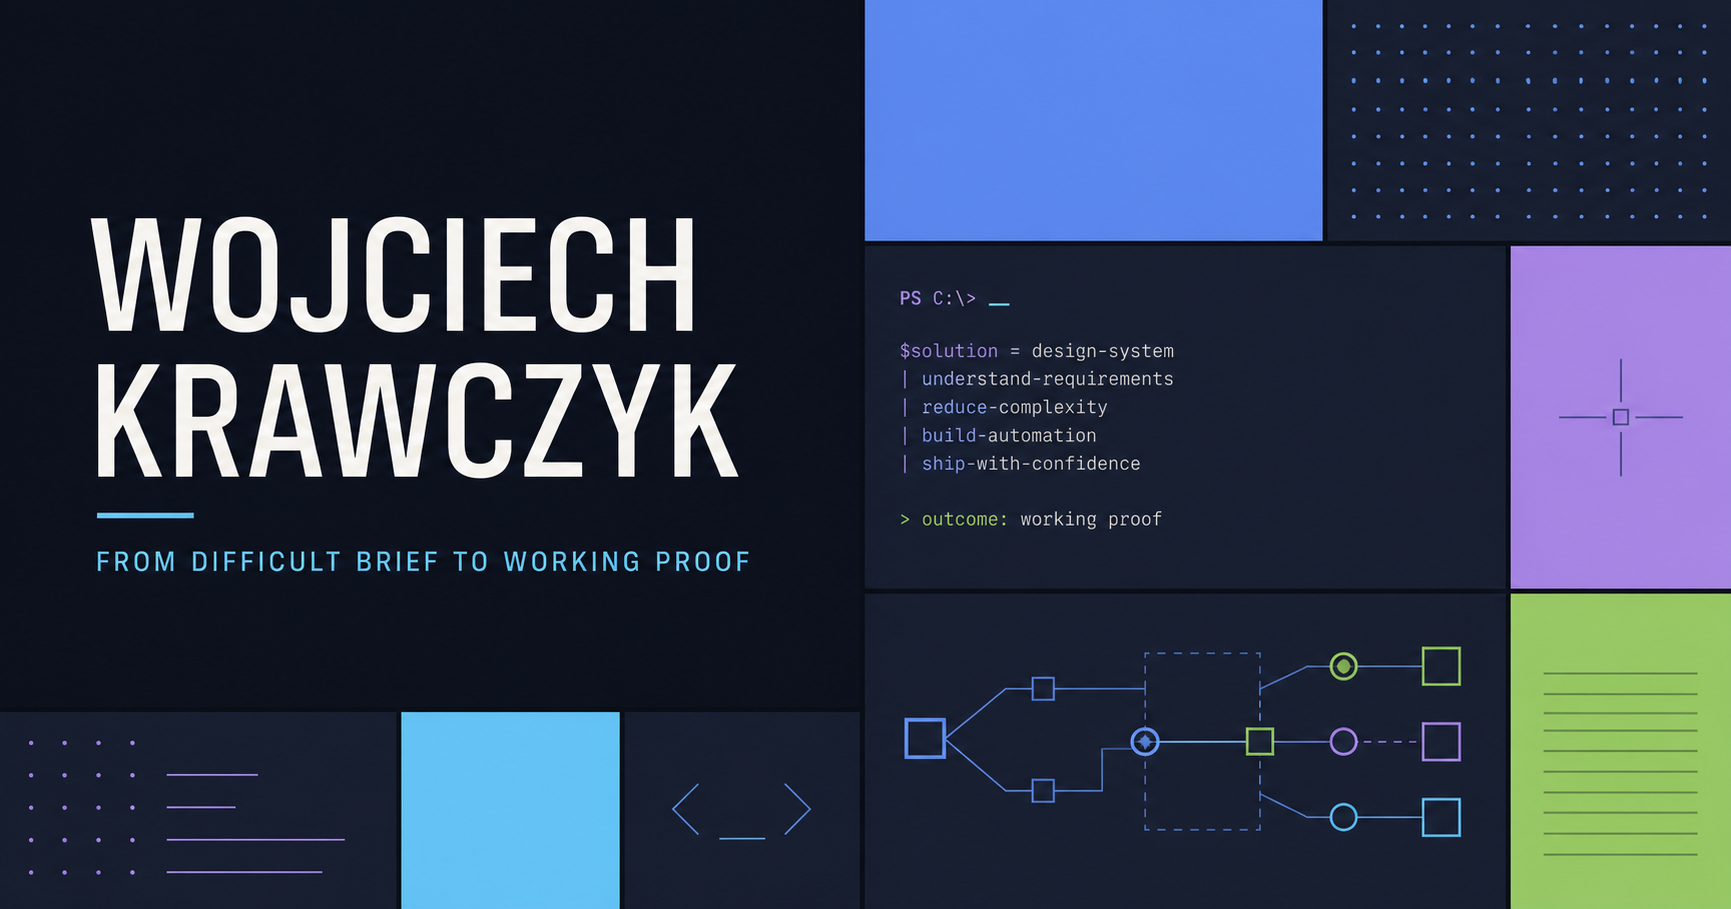
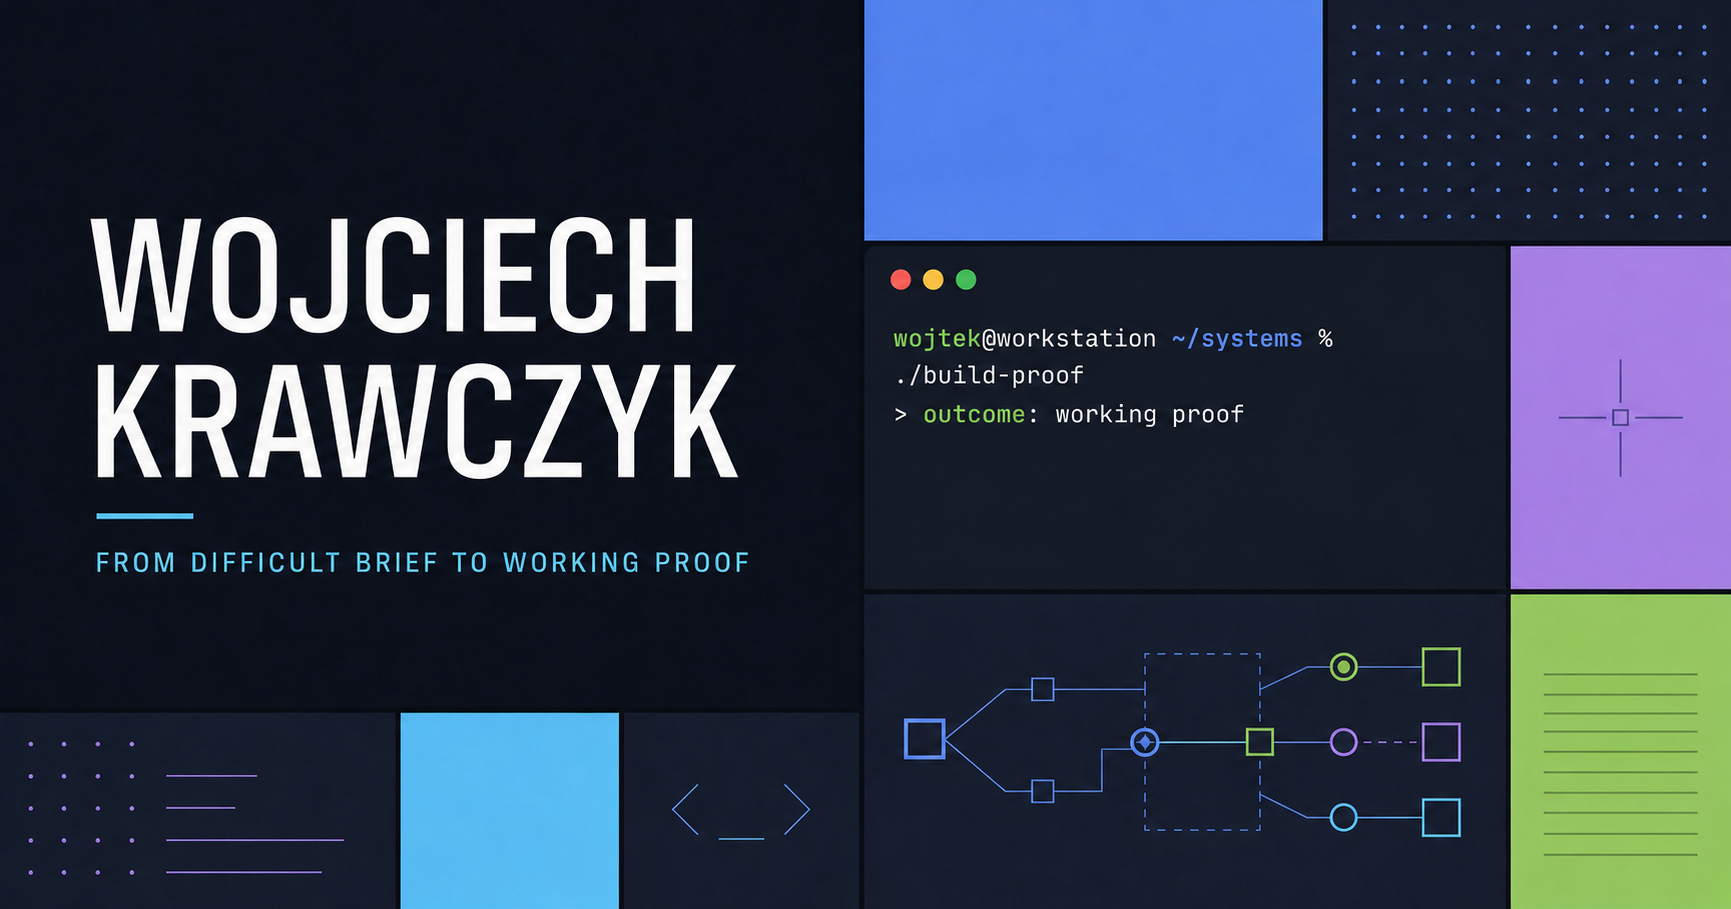
Scale project marks and adopt Unix terminal styling

diff --git a/styles.css b/styles.css
@@ -16,7 +16,7 @@
   --red: #f7768e;
   color: var(--text);
   background: var(--bg);
-  font-family: "Segoe UI", Inter, ui-sans-serif, system-ui, sans-serif;
+  font-family: -apple-system, BlinkMacSystemFont, "Helvetica Neue", Inter, ui-sans-serif, system-ui, sans-serif;
   font-synthesis: none;
 }
 
@@ -43,7 +43,7 @@ img { display: block; max-width: 100%; }
   backdrop-filter: blur(16px);
 }
 .brand { width: max-content; display: flex; align-items: center; gap: 13px; }
-.brand-mark { width: 44px; height: 44px; display: grid; place-items: center; background: var(--blue); color: var(--bg-deep); font: 800 13px/1 "Cascadia Code", "SFMono-Regular", Consolas, monospace; }
+.brand-mark { width: 44px; height: 44px; display: grid; place-items: center; background: var(--blue); color: var(--bg-deep); font: 800 13px/1 "SFMono-Regular", Menlo, Monaco, "Liberation Mono", monospace; }
 .brand-copy { display: grid; gap: 3px; }
 .brand-copy strong { color: var(--bright); font-size: 14px; }
 .brand-copy small { color: var(--muted); font-size: 11px; }
@@ -54,7 +54,7 @@ nav a:hover, .header-link:hover { color: var(--cyan); }
 .header-link span { color: var(--cyan); }
 
 .hero { min-height: 690px; padding-block: clamp(80px, 10vw, 136px); display: grid; grid-template-columns: minmax(0, 1.08fr) minmax(400px, .92fr); gap: clamp(48px, 8vw, 100px); align-items: center; }
-.kicker { margin: 0 0 20px; color: var(--cyan); font: 700 11px/1.4 "Cascadia Code", "SFMono-Regular", Consolas, monospace; letter-spacing: .11em; text-transform: uppercase; }
+.kicker { margin: 0 0 20px; color: var(--cyan); font: 700 11px/1.4 "SFMono-Regular", Menlo, Monaco, "Liberation Mono", monospace; letter-spacing: .11em; text-transform: uppercase; }
 .kicker span { display: inline-block; width: 28px; height: 2px; margin: 0 10px 3px 0; background: var(--cyan); }
 .hero h1 { margin: 0; max-width: 760px; color: var(--bright); font-size: clamp(58px, 7.2vw, 92px); font-weight: 300; line-height: .94; letter-spacing: -.065em; }
 .hero h1 em { color: var(--blue); font-style: normal; font-weight: 650; }
@@ -67,12 +67,16 @@ nav a:hover, .header-link:hover { color: var(--cyan); }
 .button--quiet:hover { border-color: var(--purple); color: var(--purple); }
 
 .terminal { border: 1px solid var(--line); background: #101116; box-shadow: 18px 18px 0 rgba(122, 162, 247, .08); }
-.terminal-bar { min-height: 42px; padding: 0 12px; display: grid; grid-template-columns: auto 1fr auto; align-items: center; gap: 10px; background: var(--panel); color: var(--muted); font-size: 12px; }
-.terminal-icon { width: 24px; height: 24px; display: grid; place-items: center; background: var(--blue); color: var(--bg-deep); font: 800 9px "Cascadia Code", Consolas, monospace; }
-.terminal-controls { color: #69739c; letter-spacing: .6em; }
-.terminal-body { min-height: 300px; padding: 25px 24px; color: var(--text); font: 13px/1.85 "Cascadia Code", "SFMono-Regular", Consolas, monospace; }
+.terminal-bar { min-height: 44px; padding: 0 14px; display: grid; grid-template-columns: 1fr auto 1fr; align-items: center; gap: 10px; background: var(--panel); color: var(--muted); font-size: 11px; }
+.terminal-controls { display: flex; gap: 7px; }
+.terminal-controls i { width: 11px; height: 11px; display: block; border-radius: 50%; background: var(--red); }
+.terminal-controls i:nth-child(2) { background: var(--yellow); }
+.terminal-controls i:nth-child(3) { background: var(--green); }
+.terminal-shell { justify-self: end; color: #69739c; font-size: 15px; }
+.terminal-body { min-height: 300px; padding: 25px 24px; color: var(--text); font: 13px/1.85 "SFMono-Regular", Menlo, Monaco, "Liberation Mono", monospace; }
 .terminal-body p { margin: 0; }
 .prompt { color: var(--cyan); }
+.path { color: var(--blue); }
 .dim { color: var(--purple); }
 .terminal-status { display: flex; justify-content: space-between; gap: 16px; }
 .terminal-status > span:first-child { min-width: 0; }
@@ -85,7 +89,7 @@ nav a:hover, .header-link:hover { color: var(--cyan); }
 .signal-strip { list-style: none; padding: 0; display: grid; grid-template-columns: repeat(4, 1fr); border: 1px solid var(--line); border-bottom: 0; }
 .signal-strip li { min-height: 125px; padding: 24px; display: grid; align-content: center; gap: 8px; border-right: 1px solid var(--line); background: var(--panel); }
 .signal-strip li:last-child { border-right: 0; }
-.signal-strip strong { color: var(--bright); font: 500 32px/1 "Cascadia Code", Consolas, monospace; }
+.signal-strip strong { color: var(--bright); font: 500 32px/1 "SFMono-Regular", Menlo, Monaco, "Liberation Mono", monospace; }
 .signal-strip span { color: var(--muted); font-size: 12px; line-height: 1.4; }
 
 .systems { padding-block: 110px; background: var(--bg-deep); border-top: 1px solid var(--line); border-bottom: 1px solid var(--line); }
@@ -93,32 +97,39 @@ nav a:hover, .header-link:hover { color: var(--cyan); }
 .section-head h2 { margin: 0; max-width: 780px; color: var(--bright); font-size: clamp(42px, 5vw, 68px); font-weight: 300; line-height: .98; letter-spacing: -.055em; }
 .section-head > p { max-width: 520px; margin: 0; color: var(--muted); font-size: 14px; line-height: 1.65; }
 .metro-grid { display: grid; grid-template-columns: repeat(12, 1fr); grid-auto-flow: dense; gap: 12px; }
-.system-tile { min-height: 440px; padding: 25px; display: flex; flex-direction: column; overflow: hidden; color: var(--bright); }
+.system-tile { min-height: 510px; padding: 25px; display: flex; flex-direction: column; overflow: hidden; color: var(--bright); }
 .system-tile--dw { grid-column: span 7; background: var(--panel); border-top: 4px solid var(--cyan); }
 .system-tile--amber { grid-column: span 5; background: var(--panel-soft); border-top: 4px solid var(--orange); }
 .system-tile--commerce { grid-column: span 5; background: var(--panel); border-top: 4px solid var(--green); }
 .system-tile--tacti { grid-column: span 7; background: var(--panel-soft); border-top: 4px solid var(--purple); }
-.tile-label { display: flex; justify-content: space-between; color: rgba(232,234,246,.72); font: 10px "Cascadia Code", Consolas, monospace; letter-spacing: .1em; text-transform: uppercase; }
+.tile-label { display: flex; justify-content: space-between; color: rgba(232,234,246,.72); font: 10px "SFMono-Regular", Menlo, Monaco, "Liberation Mono", monospace; letter-spacing: .1em; text-transform: uppercase; }
 .tile-label b { font-weight: 500; }
-.system-tile > img { width: auto; max-width: 210px; max-height: 90px; margin: 37px 0 30px; object-fit: contain; object-position: left center; }
-.system-tile--commerce > img { max-width: 135px; max-height: 100px; }
-.system-tile--tacti > img { max-width: 82px; max-height: 82px; }
+.system-logo { min-height: 215px; margin: 24px -25px 28px; padding: 22px 25px; display: flex; align-items: center; justify-content: center; overflow: hidden; }
+.system-logo--light { background: #f4f5f8; }
+.system-logo--dark { background: #10131c; }
+.system-logo img { width: auto; max-width: 100%; height: auto; object-fit: contain; object-position: center; }
+.system-logo--dw img { width: min(100%, 720px); }
+.system-logo--amber img { width: min(108%, 590px); }
+.system-logo--commerce { min-height: 270px; padding-block: 12px; }
+.system-logo--commerce img { width: 335px; max-height: 246px; }
+.system-logo--tacti { min-height: 270px; padding-block: 12px; }
+.system-logo--tacti img { width: 245px; max-height: 245px; }
 .tile-copy { margin-top: auto; }
 .tile-copy h3 { margin: 0; font-size: 31px; font-weight: 500; letter-spacing: -.04em; }
 .tile-copy p { max-width: 650px; margin: 15px 0 0; color: rgba(232,234,246,.76); font-size: 14px; line-height: 1.58; }
 .tile-copy ul { list-style: none; display: flex; flex-wrap: wrap; gap: 7px; padding: 0; margin: 22px 0 0; }
-.tile-copy li { padding: 5px 8px; border: 1px solid rgba(232,234,246,.4); font: 9px "Cascadia Code", Consolas, monospace; letter-spacing: .04em; text-transform: uppercase; }
+.tile-copy li { padding: 5px 8px; border: 1px solid rgba(232,234,246,.4); font: 9px "SFMono-Regular", Menlo, Monaco, "Liberation Mono", monospace; letter-spacing: .04em; text-transform: uppercase; }
 
 .engineering { padding-block: 110px; }
 .engineering-grid { display: grid; grid-template-columns: repeat(12, 1fr); gap: 12px; }
 .engineering-tile { grid-column: span 5; min-height: 260px; padding: 28px; position: relative; background: var(--panel); border-top: 4px solid var(--purple); }
 .engineering-tile--large { grid-column: span 7; border-color: var(--blue); }
 .engineering-tile--accent { grid-column: span 7; background: var(--blue); color: var(--bg-deep); border-color: var(--cyan); }
-.tile-number { position: absolute; right: 23px; top: 20px; color: var(--muted); font: 12px "Cascadia Code", Consolas, monospace; }
+.tile-number { position: absolute; right: 23px; top: 20px; color: var(--muted); font: 12px "SFMono-Regular", Menlo, Monaco, "Liberation Mono", monospace; }
 .engineering-tile--accent .tile-number { color: rgba(22,22,30,.62); }
 .engineering-tile h3 { margin: 55px 0 14px; color: var(--bright); font-size: 28px; font-weight: 500; letter-spacing: -.035em; }
 .engineering-tile--accent h3 { color: var(--bg-deep); }
-.engineering-tile p { margin: 0; color: var(--cyan); font: 13px/1.65 "Cascadia Code", Consolas, monospace; }
+.engineering-tile p { margin: 0; color: var(--cyan); font: 13px/1.65 "SFMono-Regular", Menlo, Monaco, "Liberation Mono", monospace; }
 .engineering-tile--accent p { color: var(--bg-deep); }
 .engineering-tile small { display: block; max-width: 590px; margin-top: 22px; color: var(--muted); font-size: 13px; line-height: 1.5; }
 
@@ -128,7 +139,7 @@ nav a:hover, .header-link:hover { color: var(--cyan); }
 .contact-tile { grid-column: span 4; min-height: 150px; padding: 23px; display: grid; grid-template-columns: 1fr auto; align-content: space-between; background: var(--panel); border-left: 4px solid var(--purple); }
 .contact-tile--email { grid-column: span 8; background: var(--blue); color: var(--bg-deep); border-color: var(--cyan); }
 .contact-tile--credly { background: #3a3154; border-color: var(--purple); }
-.contact-tile span { grid-column: 1; color: var(--muted); font: 10px "Cascadia Code", Consolas, monospace; text-transform: uppercase; letter-spacing: .1em; }
+.contact-tile span { grid-column: 1; color: var(--muted); font: 10px "SFMono-Regular", Menlo, Monaco, "Liberation Mono", monospace; text-transform: uppercase; letter-spacing: .1em; }
 .contact-tile--email span { color: var(--bg-deep); }
 .contact-tile strong { grid-column: 1; align-self: end; color: var(--bright); font-size: 16px; overflow-wrap: anywhere; }
 .contact-tile--email strong { color: var(--bg-deep); font-size: clamp(18px, 2.4vw, 27px); }
@@ -147,7 +158,11 @@ nav a:hover, .header-link:hover { color: var(--cyan); }
   .signal-strip li:nth-child(2) { border-right: 0; }
   .signal-strip li:nth-child(-n+2) { border-bottom: 1px solid var(--line); }
   .section-head { grid-template-columns: 1fr; gap: 24px; }
-  .system-tile, .system-tile--dw, .system-tile--amber, .system-tile--commerce, .system-tile--tacti { grid-column: span 12; min-height: 410px; }
+  .system-tile, .system-tile--dw, .system-tile--amber, .system-tile--commerce, .system-tile--tacti { grid-column: span 12; min-height: 490px; }
+  .system-logo--dw img { width: min(88vw, 760px); }
+  .system-logo--amber img { width: min(84vw, 650px); }
+  .system-logo--commerce img { width: 340px; max-height: 250px; }
+  .system-logo--tacti img { width: 250px; max-height: 250px; }
   .engineering-tile, .engineering-tile--large, .engineering-tile--accent { grid-column: span 12; }
   .contact-tile, .contact-tile--email { grid-column: span 6; }
 }
@@ -164,8 +179,13 @@ nav a:hover, .header-link:hover { color: var(--cyan); }
   .signal-strip { width: 100%; grid-template-columns: 1fr; border-inline: 0; }
   .signal-strip li, .signal-strip li:nth-child(2) { min-height: 105px; border-right: 0; border-bottom: 1px solid var(--line); }
   .systems, .engineering, .contact { padding-block: 78px; }
-  .system-tile { min-height: 430px; padding: 22px; }
-  .system-tile > img { max-width: 170px; max-height: 75px; }
+  .system-tile { min-height: 470px; padding: 22px; }
+  .system-logo { min-height: 180px; margin: 22px -22px 24px; padding: 18px 22px; }
+  .system-logo--dw img { width: 100%; }
+  .system-logo--amber img { width: 105%; }
+  .system-logo--commerce, .system-logo--tacti { min-height: 235px; }
+  .system-logo--commerce img { width: 285px; max-height: 215px; }
+  .system-logo--tacti img { width: 215px; max-height: 215px; }
   .engineering-tile { min-height: 245px; }
   .contact-tile, .contact-tile--email { grid-column: span 12; }
   .site-footer { padding-block: 24px; flex-direction: column; align-items: flex-start; }

diff --git a/index.html b/index.html
@@ -43,20 +43,20 @@
           </div>
         </div>
 
-        <aside class="terminal" aria-label="Engineering workflow shown as a PowerShell session">
+        <aside class="terminal" aria-label="Engineering workflow shown as a zsh terminal session">
           <div class="terminal-bar">
-            <span class="terminal-icon">PS</span>
-            <span>Windows PowerShell</span>
-            <span class="terminal-controls" aria-hidden="true">— □ ×</span>
+            <span class="terminal-controls" aria-hidden="true"><i></i><i></i><i></i></span>
+            <span>wojtek — zsh — ~/systems</span>
+            <span class="terminal-shell" aria-hidden="true">⌘</span>
           </div>
           <div class="terminal-body">
-            <p><span class="prompt">PS C:\systems&gt;</span> .\build-proof.ps1</p>
+            <p><span class="prompt">wojtek@workstation</span> <span class="path">~/systems</span> % ./build-proof</p>
             <p class="terminal-status"><span><span class="dim">[01]</span> define the operating contract</span><span class="ok">OK</span></p>
             <p class="terminal-status"><span><span class="dim">[02]</span> cross every layer once</span><span class="ok">OK</span></p>
             <p class="terminal-status"><span><span class="dim">[03]</span> exercise the failure path</span><span class="ok">OK</span></p>
             <p class="terminal-status"><span><span class="dim">[04]</span> preserve the evidence</span><span class="ok">OK</span></p>
             <p class="terminal-result">result: useful, observable, ready to operate</p>
-            <p><span class="prompt">PS C:\systems&gt;</span><span class="cursor" aria-hidden="true"></span></p>
+            <p><span class="prompt">wojtek@workstation</span> <span class="path">~/systems</span> %<span class="cursor" aria-hidden="true"></span></p>
           </div>
         </aside>
       </section>
@@ -84,9 +84,11 @@
           <div class="metro-grid">
             <article class="system-tile system-tile--dw">
               <div class="tile-label"><span>Commerce intelligence</span><b>01</b></div>
-              <img src="assets/work/digitalweaver.svg" width="1200" height="260" alt="DigitalWeaver">
+              <div class="system-logo system-logo--light system-logo--dw">
+                <img src="assets/work/digitalweaver.svg" width="700" height="180" alt="">
+              </div>
               <div class="tile-copy">
-                <h3>DigitalWeaver</h3>
+                <h3 class="visually-hidden">DigitalWeaver</h3>
                 <p>Semantic and visual retrieval, per-session taste, Stripe billing, quotas, WooCommerce, and an authorised operational interface. The current full proof is a 31/31 local Docker gate.</p>
                 <ul><li>retrieval</li><li>multi-tenant</li><li>commerce</li></ul>
               </div>
@@ -94,9 +96,11 @@
 
             <article class="system-tile system-tile--amber">
               <div class="tile-label"><span>Retrieval core</span><b>02</b></div>
-              <img src="assets/work/amber.svg" width="1200" height="320" alt="AMBER">
+              <div class="system-logo system-logo--light system-logo--amber">
+                <img src="assets/work/amber.svg" width="1200" height="320" alt="">
+              </div>
               <div class="tile-copy">
-                <h3>AMBER</h3>
+                <h3 class="visually-hidden">AMBER</h3>
                 <p>A Go ranker compressing a 384-dimensional document embedding into a 48-byte code, with online append and atomic snapshots.</p>
                 <ul><li>Go</li><li>48 bytes</li><li>direct ranking</li></ul>
               </div>
@@ -104,9 +108,11 @@
 
             <article class="system-tile system-tile--commerce">
               <div class="tile-label"><span>Commerce platform</span><b>03</b></div>
-              <img src="assets/work/commerceos.svg" width="720" height="540" alt="CommerceOS">
+              <div class="system-logo system-logo--dark system-logo--commerce">
+                <img src="assets/work/commerceos.svg" width="720" height="540" alt="">
+              </div>
               <div class="tile-copy">
-                <h3>CommerceOS</h3>
+                <h3 class="visually-hidden">CommerceOS</h3>
                 <p>Server-owned pricing and inventory, immutable records, deny-by-default access, and payment truth reconciled against the provider.</p>
                 <ul><li>Go</li><li>Google Cloud</li><li>deterministic</li></ul>
               </div>
@@ -114,9 +120,11 @@
 
             <article class="system-tile system-tile--tacti">
               <div class="tile-label"><span>Applied research</span><b>04</b></div>
-              <img src="assets/work/tactigraph.svg" width="512" height="512" alt="TactiGraph">
+              <div class="system-logo system-logo--dark system-logo--tacti">
+                <img src="assets/work/tactigraph.svg" width="512" height="512" alt="">
+              </div>
               <div class="tile-copy">
-                <h3>TactiGraph</h3>
+                <h3 class="visually-hidden">TactiGraph</h3>
                 <p>Four-sport tactical intelligence separating observation, deterministic rules, inference, degraded inputs, and reconciliation.</p>
                 <ul><li>Python</li><li>calibration</li><li>evidence</li></ul>
               </div>
